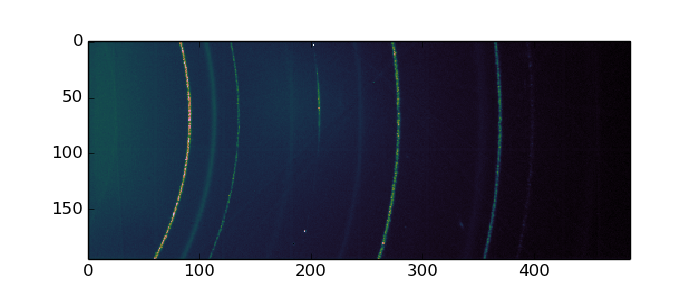
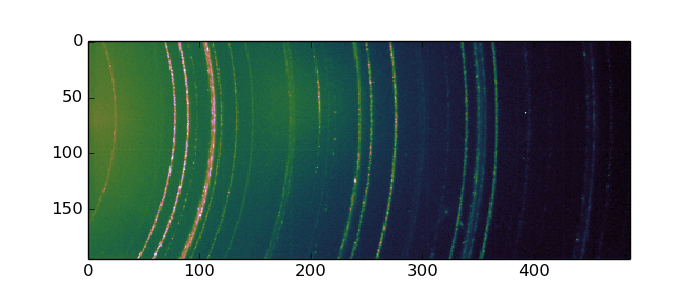
ready to use this in the specplots

diff --git a/testdata/2014-06-12/handle_2d.py b/testdata/2014-06-12/handle_2d.py
@@ -10,9 +10,9 @@ import h5py
 import numpy
 import matplotlib.pyplot as plt
 
-TEST_FILE = os.path.join(os.path.abspath(os.path.split(__file__)[0]), 'waxs', 'LSM_infl_228.hdf5')
+TEST_FILE = os.path.join(os.path.abspath(os.path.split(__file__)[0]), 'waxs', 'LSM_YSZ_infl_227.hdf5')
 HDF5_DATA_PATH = '/entry/data/data'
-SCALING_FACTOR = 255        #  2**24
+SCALING_FACTOR = 1        #  2**24
 PLOT_H_INT = 7
 PLOT_V_INT = 3
 COLORMAP = 'cubehelix'        # http://matplotlib.org/api/pyplot_summary.html#matplotlib.pyplot.colormaps
